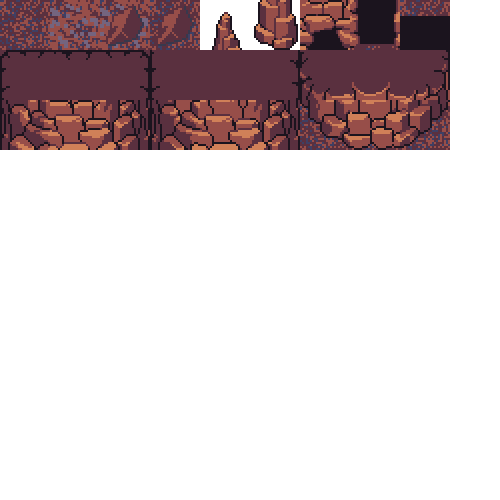
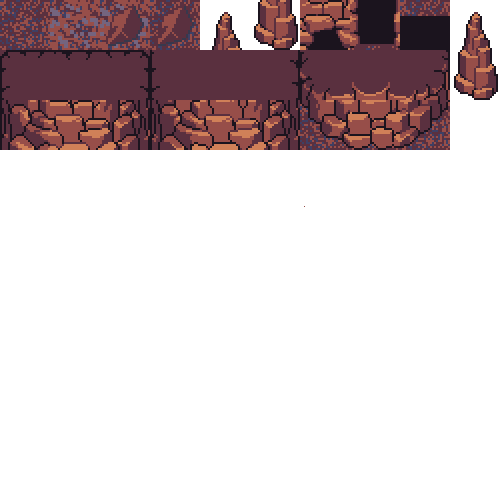
add cave entrance area

Changed region(s): [[0.9, 0.03, 1.0, 0.21]]

diff --git a/js/daggerAssets.js b/js/daggerAssets.js
@@ -1768,29 +1768,29 @@ const daggerAssets = [
         {tag: "OPENING_A",              id: 806, cls: "Sprite", width: 50, height: 50, xoffset: 50*6, yoffset: 50*0, passable: true, tileset: true },
         {tag: "OPENING_B",              id: 807, cls: "Sprite", width: 50, height: 50, xoffset: 50*7, yoffset: 50*0, passable: true, tileset: true },
         {tag: "CHASM",                  id: 808, cls: "Sprite", width: 50, height: 50, xoffset: 50*8, yoffset: 50*0, passable: true, tileset: true },
-        {tag: "EMPTY",                  id: 809, cls: "Sprite", width: 50, height: 50, xoffset: 50*9, yoffset: 50*0, passable: true, tileset: true },
+        {tag: "STONE_SPIRE",            id: 809, cls: "Sprite", width: 50, height: 100, xoffset: 50*9, yoffset: 50*0, tileset: true },
         // ROW --2
-        {tag: "CAVE_CIEL_A",            id: 810, cls: "Sprite", width: 50, height: 50, xoffset: 50*0, yoffset: 50*1, passable: true, tileset: true },
-        {tag: "CAVE_CIEL_B",            id: 811, cls: "Sprite", width: 50, height: 50, xoffset: 50*1, yoffset: 50*1, passable: true, tileset: true },
-        {tag: "CAVE_CIEL_C",            id: 812, cls: "Sprite", width: 50, height: 50, xoffset: 50*2, yoffset: 50*1, passable: true, tileset: true },
-        {tag: "CAVE_CIEL_D",            id: 813, cls: "Sprite", width: 50, height: 50, xoffset: 50*3, yoffset: 50*1, passable: true, tileset: true },
-        {tag: "CAVE_CIEL_E",            id: 814, cls: "Sprite", width: 50, height: 50, xoffset: 50*4, yoffset: 50*1, passable: true, tileset: true },
-        {tag: "CAVE_CIEL_F",            id: 815, cls: "Sprite", width: 50, height: 50, xoffset: 50*5, yoffset: 50*1, passable: true, tileset: true },
-        {tag: "CAVE_CIEL_G",            id: 816, cls: "Sprite", width: 50, height: 50, xoffset: 50*6, yoffset: 50*1, passable: true, tileset: true },
-        {tag: "CAVE_CIEL_H",            id: 817, cls: "Sprite", width: 50, height: 50, xoffset: 50*7, yoffset: 50*1, passable: true, tileset: true },
-        {tag: "CAVE_CIEL_I",            id: 818, cls: "Sprite", width: 50, height: 50, xoffset: 50*8, yoffset: 50*1, passable: true, tileset: true },
-        {tag: "EMPTY",                  id: 819, cls: "Sprite", width: 50, height: 50, xoffset: 50*9, yoffset: 50*1, passable: true, tileset: true },
+        {tag: "CAVE_CIEL_A",            id: 810, cls: "Sprite", width: 50, height: 50, xoffset: 50*0, yoffset: 50*1, lateRender: true, tileset: true },
+        {tag: "CAVE_CIEL_B",            id: 811, cls: "Sprite", width: 50, height: 50, xoffset: 50*1, yoffset: 50*1, lateRender: true, tileset: true },
+        {tag: "CAVE_CIEL_C",            id: 812, cls: "Sprite", width: 50, height: 50, xoffset: 50*2, yoffset: 50*1, lateRender: true, tileset: true },
+        {tag: "CAVE_CIEL_D",            id: 813, cls: "Sprite", width: 50, height: 50, xoffset: 50*3, yoffset: 50*1, lateRender: true, tileset: true },
+        {tag: "CAVE_CIEL_E",            id: 814, cls: "Sprite", width: 50, height: 50, xoffset: 50*4, yoffset: 50*1, lateRender: true, tileset: true },
+        {tag: "CAVE_CIEL_F",            id: 815, cls: "Sprite", width: 50, height: 50, xoffset: 50*5, yoffset: 50*1, lateRender: true, tileset: true },
+        {tag: "CAVE_CIEL_G",            id: 816, cls: "Sprite", width: 50, height: 50, xoffset: 50*6, yoffset: 50*1, lateRender: true, tileset: true },
+        {tag: "CAVE_CIEL_H",            id: 817, cls: "Sprite", width: 50, height: 50, xoffset: 50*7, yoffset: 50*1, lateRender: true, tileset: true },
+        {tag: "CAVE_CIEL_I",            id: 818, cls: "Sprite", width: 50, height: 50, xoffset: 50*8, yoffset: 50*1, lateRender: true, tileset: true },
+        {tag: "EMPTY",                  id: 819, cls: "Sprite", width: 50, height: 100, xoffset: 50*9, yoffset: 50*1, tileset: true },
         // ROW -- 3
-        {tag: "WALL_TOP_A",             id: 820, cls: "Sprite", width: 50, height: 50, xoffset: 50*0, yoffset: 50*2, passable: true, tileset: true },
-        {tag: "WALL_TOP_B",             id: 821, cls: "Sprite", width: 50, height: 50, xoffset: 50*1, yoffset: 50*2, passable: true, tileset: true },
-        {tag: "WALL_TOP_C",             id: 822, cls: "Sprite", width: 50, height: 50, xoffset: 50*2, yoffset: 50*2, passable: true, tileset: true },
-        {tag: "WALL_MID_A",             id: 823, cls: "Sprite", width: 50, height: 50, xoffset: 50*3, yoffset: 50*2, passable: true, tileset: true },
-        {tag: "WALL_MID_B",             id: 824, cls: "Sprite", width: 50, height: 50, xoffset: 50*4, yoffset: 50*2, passable: true, tileset: true },
-        {tag: "WALL_MID_C",             id: 825, cls: "Sprite", width: 50, height: 50, xoffset: 50*5, yoffset: 50*2, passable: true, tileset: true },
-        {tag: "WALL_BOT_A",             id: 826, cls: "Sprite", width: 50, height: 50, xoffset: 50*6, yoffset: 50*2, passable: true, tileset: true },
-        {tag: "WALL_BOT_B",             id: 827, cls: "Sprite", width: 50, height: 50, xoffset: 50*7, yoffset: 50*2, passable: true, tileset: true },
-        {tag: "WALL_BOT_C",             id: 828, cls: "Sprite", width: 50, height: 50, xoffset: 50*8, yoffset: 50*2, passable: true, tileset: true },
-        {tag: "EMPTY",                  id: 829, cls: "Sprite", width: 50, height: 50, xoffset: 50*9, yoffset: 50*2, passable: true, tileset: true },
+        {tag: "WALL_TOP_A",             id: 820, cls: "Sprite", width: 50, height: 50, xoffset: 50*0, yoffset: 50*2, tileset: true },
+        {tag: "WALL_TOP_B",             id: 821, cls: "Sprite", width: 50, height: 50, xoffset: 50*1, yoffset: 50*2, tileset: true },
+        {tag: "WALL_TOP_C",             id: 822, cls: "Sprite", width: 50, height: 50, xoffset: 50*2, yoffset: 50*2, tileset: true },
+        {tag: "WALL_MID_A",             id: 823, cls: "Sprite", width: 50, height: 50, xoffset: 50*3, yoffset: 50*2, tileset: true },
+        {tag: "WALL_MID_B",             id: 824, cls: "Sprite", width: 50, height: 50, xoffset: 50*4, yoffset: 50*2, tileset: true },
+        {tag: "WALL_MID_C",             id: 825, cls: "Sprite", width: 50, height: 50, xoffset: 50*5, yoffset: 50*2, tileset: true },
+        {tag: "WALL_BOT_A",             id: 826, cls: "Sprite", width: 50, height: 50, xoffset: 50*6, yoffset: 50*2, tileset: true },
+        {tag: "WALL_BOT_B",             id: 827, cls: "Sprite", width: 50, height: 50, xoffset: 50*7, yoffset: 50*2, tileset: true },
+        {tag: "WALL_BOT_C",             id: 828, cls: "Sprite", width: 50, height: 50, xoffset: 50*8, yoffset: 50*2, tileset: true },
+        {tag: "EMPTY",                  id: 829, cls: "Sprite", width: 50, height: 50, xoffset: 50*9, yoffset: 50*2, tileset: true },
         // ROW -- 4
         // {tag: "EMPTY",                  id: 825, cls: "Sprite", width: 50, height: 50, xoffset: 50*0, yoffset: 50*3, passable: true, tileset: true },
         // {tag: "EMPTY",                  id: 826, cls: "Sprite", width: 50, height: 50, xoffset: 50*1, yoffset: 50*3, passable: true, tileset: true },

diff --git a/js/WorldGen.js b/js/WorldGen.js
@@ -1899,3 +1899,54 @@ var fisherSpec = {
         
     ],
 };
+
+var caveEntranceSpec = {
+    name: "caveEntrance",
+    width: 12,
+    height: 12,
+    bg: [
+          0,  0,  0,  0,  0,  0,  0,  0,  0,  0,  0,  0,
+          0,  0,  0,  0,  0,  0,  0,  0,  0,  0,  0,  0,
+          0,  0,  0,800,800,800,800,800,800,800,  0,  0,
+          0,  0,800,800,800,800,800,801,800,800,800,  0,
+          0,  0,800,800,800,800,800,800,801,800,800,  0,
+          0,  0,800,800,800,803,800,800,801,800,800,814,
+          0,  0,800,800,800,800,803,801,800,800,  0,814,
+          0,  0,800,800,800,800,800,801,800,800,  0,814,
+          0,  0,800,800,800,800,800,801,800,800,  0,  0,
+          0,  0,800,800,800,800,802,800,800,800,  0,  0,
+          0,  0,800,800,800,800,801,800,800,800,  0,  0,
+          0,  0,800,800,800,800,801,800,800,800,800,  0,
+        
+    ],
+    fg: [
+          0,821,822,820,824,824,824,824,806,825,820,821,
+          0,821,822,826,827,827,827,827,807,828,820,821,
+          0,812,828,  0,  0,  0,  0,  0,  0,  0,826,810,
+          0,815,  0,  0,  0,  0,  0,  0,  0,  0,  0,813,
+          0,815,901,810,812,  0,  0,  0,  0,809,  0,813,
+          0,815,  0,816,818,  0,  0,  0,  0,  0,  0,813,
+          0,815,  0,820,825,901,  0,  0,  0,  0,810,  0,
+          0,815,  0,826,828,  0,  0,  0,  0,  0,813,  0,
+          0,815,  0,  0,  0,  0,  0,  0,  0,  0,816,817,
+          0,818,  0,  0,  0,809,  0,  0,  0,  0,820,824,
+          0,822,  0,  0,  0,  0,  0,  0,810,812,826,824,
+          0,828,810,811,811,812,  0,810,814,814,812,826,
+        
+    ],
+    rooms: [
+          0,  0,  0,  0,  0,  0,  0,  0,  0,  0,  0,  0,
+          0,  0,  0,  0,  0,  0,  0,  0,  0,  0,  0,  0,
+          0,  0,  0,  0,  0,  0,  0,  0,  0,  0,  0,  0,
+          0,  0,  0,  0,  0,  0,  0,  0,  0,  0,  0,  0,
+          0,  0,  0,  0,  0,  0,  0,  0,  0,  0,  0,  0,
+          0,  0,  0,  0,  0,  0,  0,  0,  0,  0,  0,  0,
+          0,  0,  0,  0,  0,  0,  0,  0,  0,  0,  0,  0,
+          0,  0,  0,  0,  0,  0,  0,  0,  0,  0,  0,  0,
+          0,  0,  0,  0,  0,  0,  0,  0,  0,  0,  0,  0,
+          0,  0,  0,  0,  0,  0,  0,  0,  0,  0,  0,  0,
+          0,  0,  0,  0,  0,  0,  0,  0,  0,  0,  0,  0,
+          0,  0,  0,  0,  0,  0,  0,  0,  0,  0,  0,  0,
+        
+    ],
+};

diff --git a/js/World.js b/js/World.js
@@ -38,7 +38,7 @@ var allLevels = {
       //"temple_entryway":  { x: 2, y: 3 },
     },
   }),
-  "lvl4": Object.assign(lvl2Spec, {
+  "lvl4": Object.assign(lvl4Spec, {
     exits: [
      // { x: 0, y: 3, lvl: "lvl2",            spawn: "lvl3" },
      // { x: 5, y: 0, lvl: "testroom",        spawn: "lvl3" },
@@ -280,11 +280,13 @@ var allLevels = {
         { x: 0, y: 14, lvl: "town",   spawn: "east1" },
         { x: 0, y: 15, lvl: "town",   spawn: "east2" },
         { x: 0, y: 16, lvl: "town",   spawn: "east3" },
+        { x: 47, y: 19, lvl: "caveEntrance",   spawn: "east" },
       ],
       spawns: {
         "town1": { x: 1, y: 14 },
         "town2": { x: 1, y: 15 },
         "town3": { x: 1, y: 16 },
+        "caveEntrance": { x: 47, y: 20 },
       },
   }),
 
@@ -297,11 +299,22 @@ var allLevels = {
       },
   }),
 
+  "caveEntrance": Object.assign(caveEntranceSpec, {
+      exits: [
+        { x: 6, y: 11, lvl: "east",   spawn: "caveEntrance" },
+        { x: 8, y: 1, lvl: "cave2",   spawn: "caveEntrance" },
+      ],
+      spawns: {
+        "east": { x: 6, y: 10 },
+        "cave2": { x: 8, y: 2 },
+      },
+  }),
+
 }
-//var startingLevel = "lvl1";
-//var startingSpawn = "town";
-var startingLevel = "house1";
-var startingSpawn = "start";
+var startingLevel = "caveEntrance";
+var startingSpawn = "east";
+//var startingLevel = "house1";
+//var startingSpawn = "start";
 
 const TILE_W = 50;
 const TILE_H = 50;
